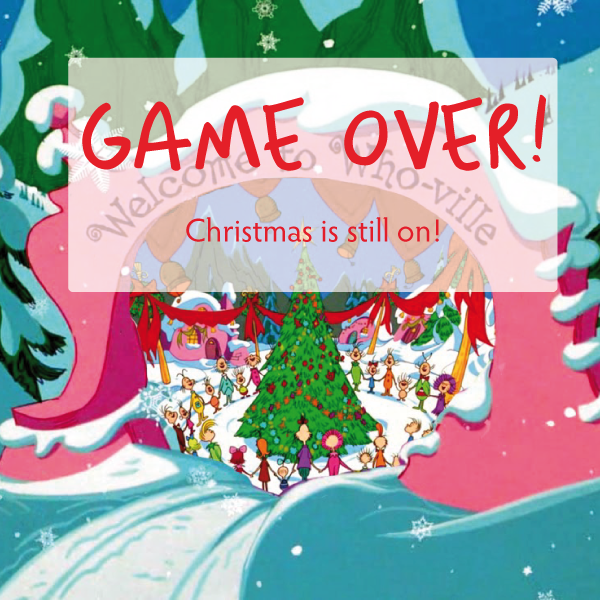
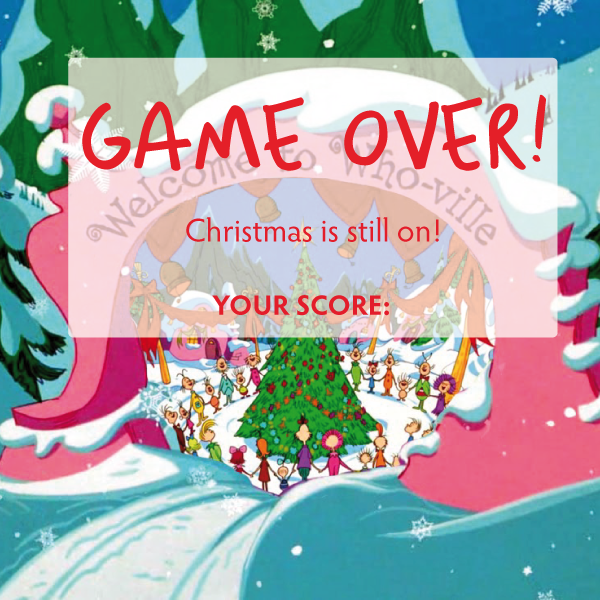
Fixat bugg med spelaren, går snabbare och score på game over

Changed region(s): [[0.09, 0.48, 0.93, 0.57]]

diff --git a/source/maingamestate.js b/source/maingamestate.js
@@ -42,6 +42,7 @@ mainGameState.create = function() {
     this.playerShip.scale.setTo(0.5,0.5);
     this.playerShip.anchor.setTo(0.5, 0.5);
     game.physics.arcade.enable(this.playerShip);
+    this.playerShip.body.immovable = true;
     this.cursors = game.input.keyboard.createCursorKeys();
 
     this.asteroidTimer = game.rnd.integerInRange(1.0, 3.0);
@@ -71,7 +72,7 @@ mainGameState.create = function() {
 
 
     var textStyle = {
-        font: "16px Comic Sans", 
+        font: "16px Century Gothic", 
         fill: "#ffffff", 
         align: "center"
     }
@@ -81,7 +82,6 @@ mainGameState.create = function() {
     this.scoreValue = game.add.text(game.width*0.95, 30, "0", textStyle);
     this.scoreValue.fixedToCamera = true;
     this.scoreValue.anchor.setTo(0.5, 0.5);
-    this.playerScore = 0;
 
     this.lifeTitle = game.add.text(game.width*0.1, 30, "LIFE: ", textStyle);
     this.lifeTitle.fixedToCamera = true;
@@ -105,21 +105,21 @@ mainGameState.create = function() {
 
     this.previousScore = game.global.score;
     this.asteroidVelocity = 100;
+    
 }
 
 mainGameState.update = function() {
     this.updatePlayer();
 
     if(game.global.score % 10 == 0 && game.global.score != 0 && game.global.score != this.previousScore){
-        this.asteroidVelocity += 100;
+        this.asteroidVelocity += 50;
     }
     this.previousScore = game.global.score;
 
     this.asteroidTimer -= game.time.physicsElapsed;
     if(this.asteroidTimer <= 0.0){
-        this.spawnAsteroid();
-        this.asteroidTimer = 1.0;
-        console.log(this.asteroidTimer);
+        this.spawnAsteroid(this.asteroidVelocity);
+        this.asteroidTimer = 2.0;
     }
     //console.log(this.asteroidTimer);
 
@@ -153,7 +153,7 @@ mainGameState.update = function() {
     }
 
     game.physics.arcade.collide(this.asteroids, this.playerLaser, mainGameState.onAsteroidLaserCollision, null, this);
-    this.scoreValue.setText(this.playerScore);
+    this.scoreValue.setText(game.global.score);
 
     game.physics.arcade.collide(this.asteroids, this.playerShip, mainGameState.onAsteroidPlayerCollision, null, this);
     this.livesValue.setText(this.playerLife);
@@ -201,12 +201,6 @@ mainGameState.spawnAsteroid = function(velocity){
     this.asteroids.add(asteroid);
 }
 
-mainGameState.updateCounter = function() {
-
-    total++;
-    console.log(total);
-
-}
 
 mainGameState.spawnLaser = function(){
     if(this.fireTimer < 0){
@@ -238,7 +232,7 @@ mainGameState.onAsteroidLaserCollision = function(object1, object2){
     object1.pendingDestroy = true;
     object2.pendingDestroy = true;
 
-    this.playerScore++;
+    game.global.score++;
 
     var index = game.rnd.integerInRange(0, this.playerHitSfx.length - 1);
     this.playerHitSfx[index].play();

diff --git a/source/gameoverstate.js b/source/gameoverstate.js
@@ -3,30 +3,22 @@ var gameOverState = {}
 gameOverState.preload = function(){
     game.load.image("game-over", "gameover-background.png");
     game.load.spritesheet("button", "button/playagaingrey_button03.png");
-    
-    //game.load.audio("wintery", "wintery loop.mp3");
 }
 
 gameOverState.create = function(){
     game.physics.startSystem(Phaser.Physics.ARCADE);
     game.add.sprite(0, 0, 'game-over');
     
-    /*this.music = game.add.audio("wintery");
-    this.music.play();
-    this.music.loop = true;
-    this.music.volume = 0.5;*/
-    
     var button;
+    
+    var textStyle = {font: "25px Arial", fill: "#FF0F00", align: "center"};
+
+    var scoreValue = game.add.text(game.width * 0.7, game.height * 0.515, game.global.score, textStyle);
+    scoreValue.anchor.setTo(0.5, 0.5);
 }
 
 gameOverState.update = function(){
     button = game.add.button(game.world.centerX -95, 400, 'button', gameOverState.actionOnClick, this, 2, 1, 0);
-    
-    /*var scoreTitle = game.add.text(game.width * 0.5, game.height * 0.6, "Your Score:");
-    scoreTitle.anchor.setTo(0.5, 0.5);
-
-    var scoreValue = game.add.text(game.width * 0.5, game.height * 0.8, score);
-    scoreValue.anchor.setTo(0.5, 0.5); */
     
 }
 
